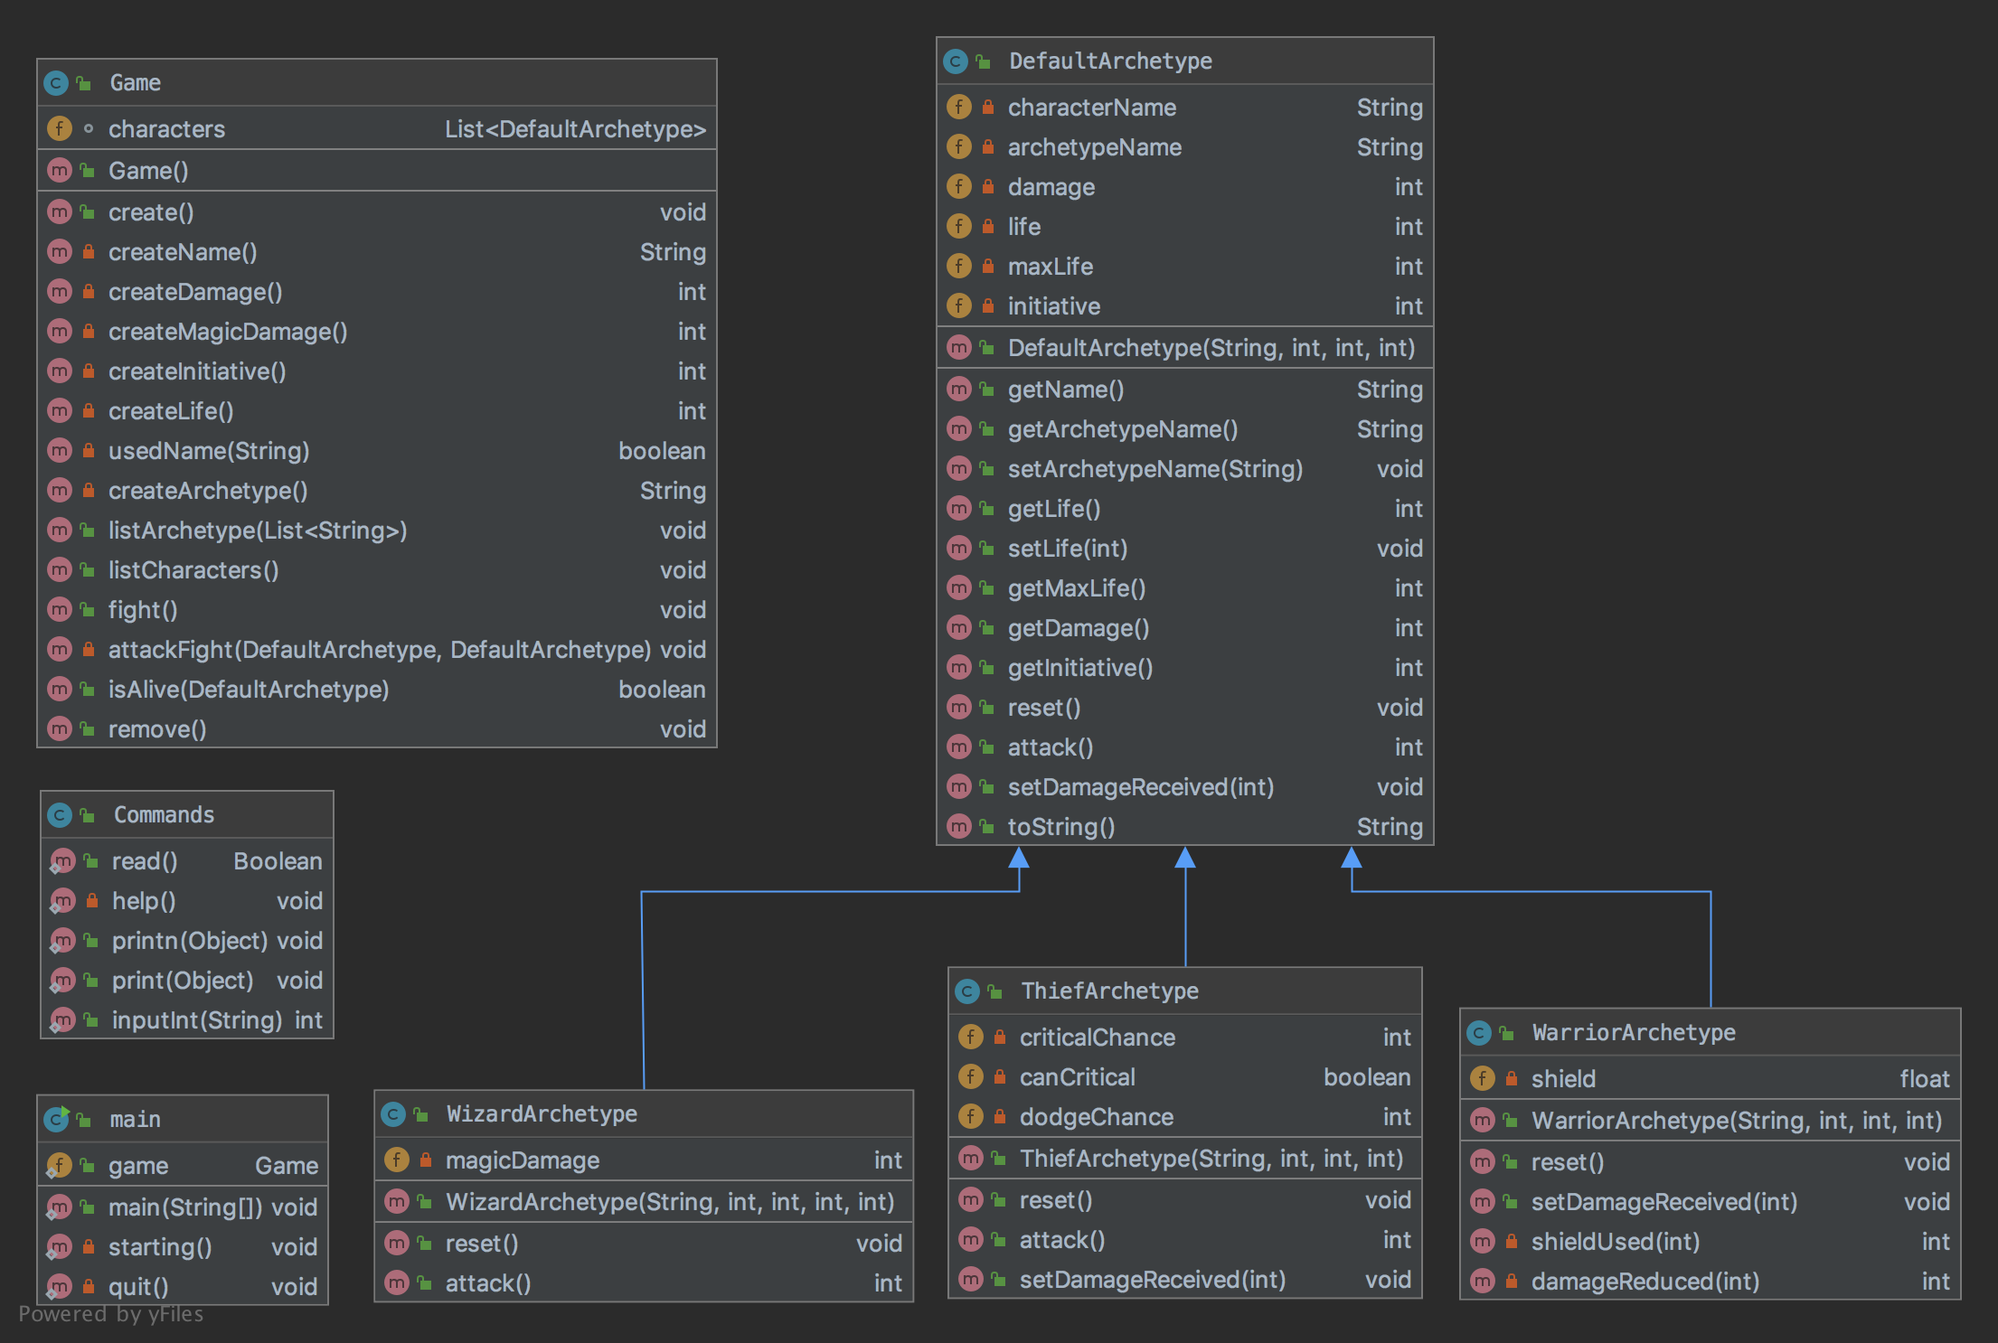
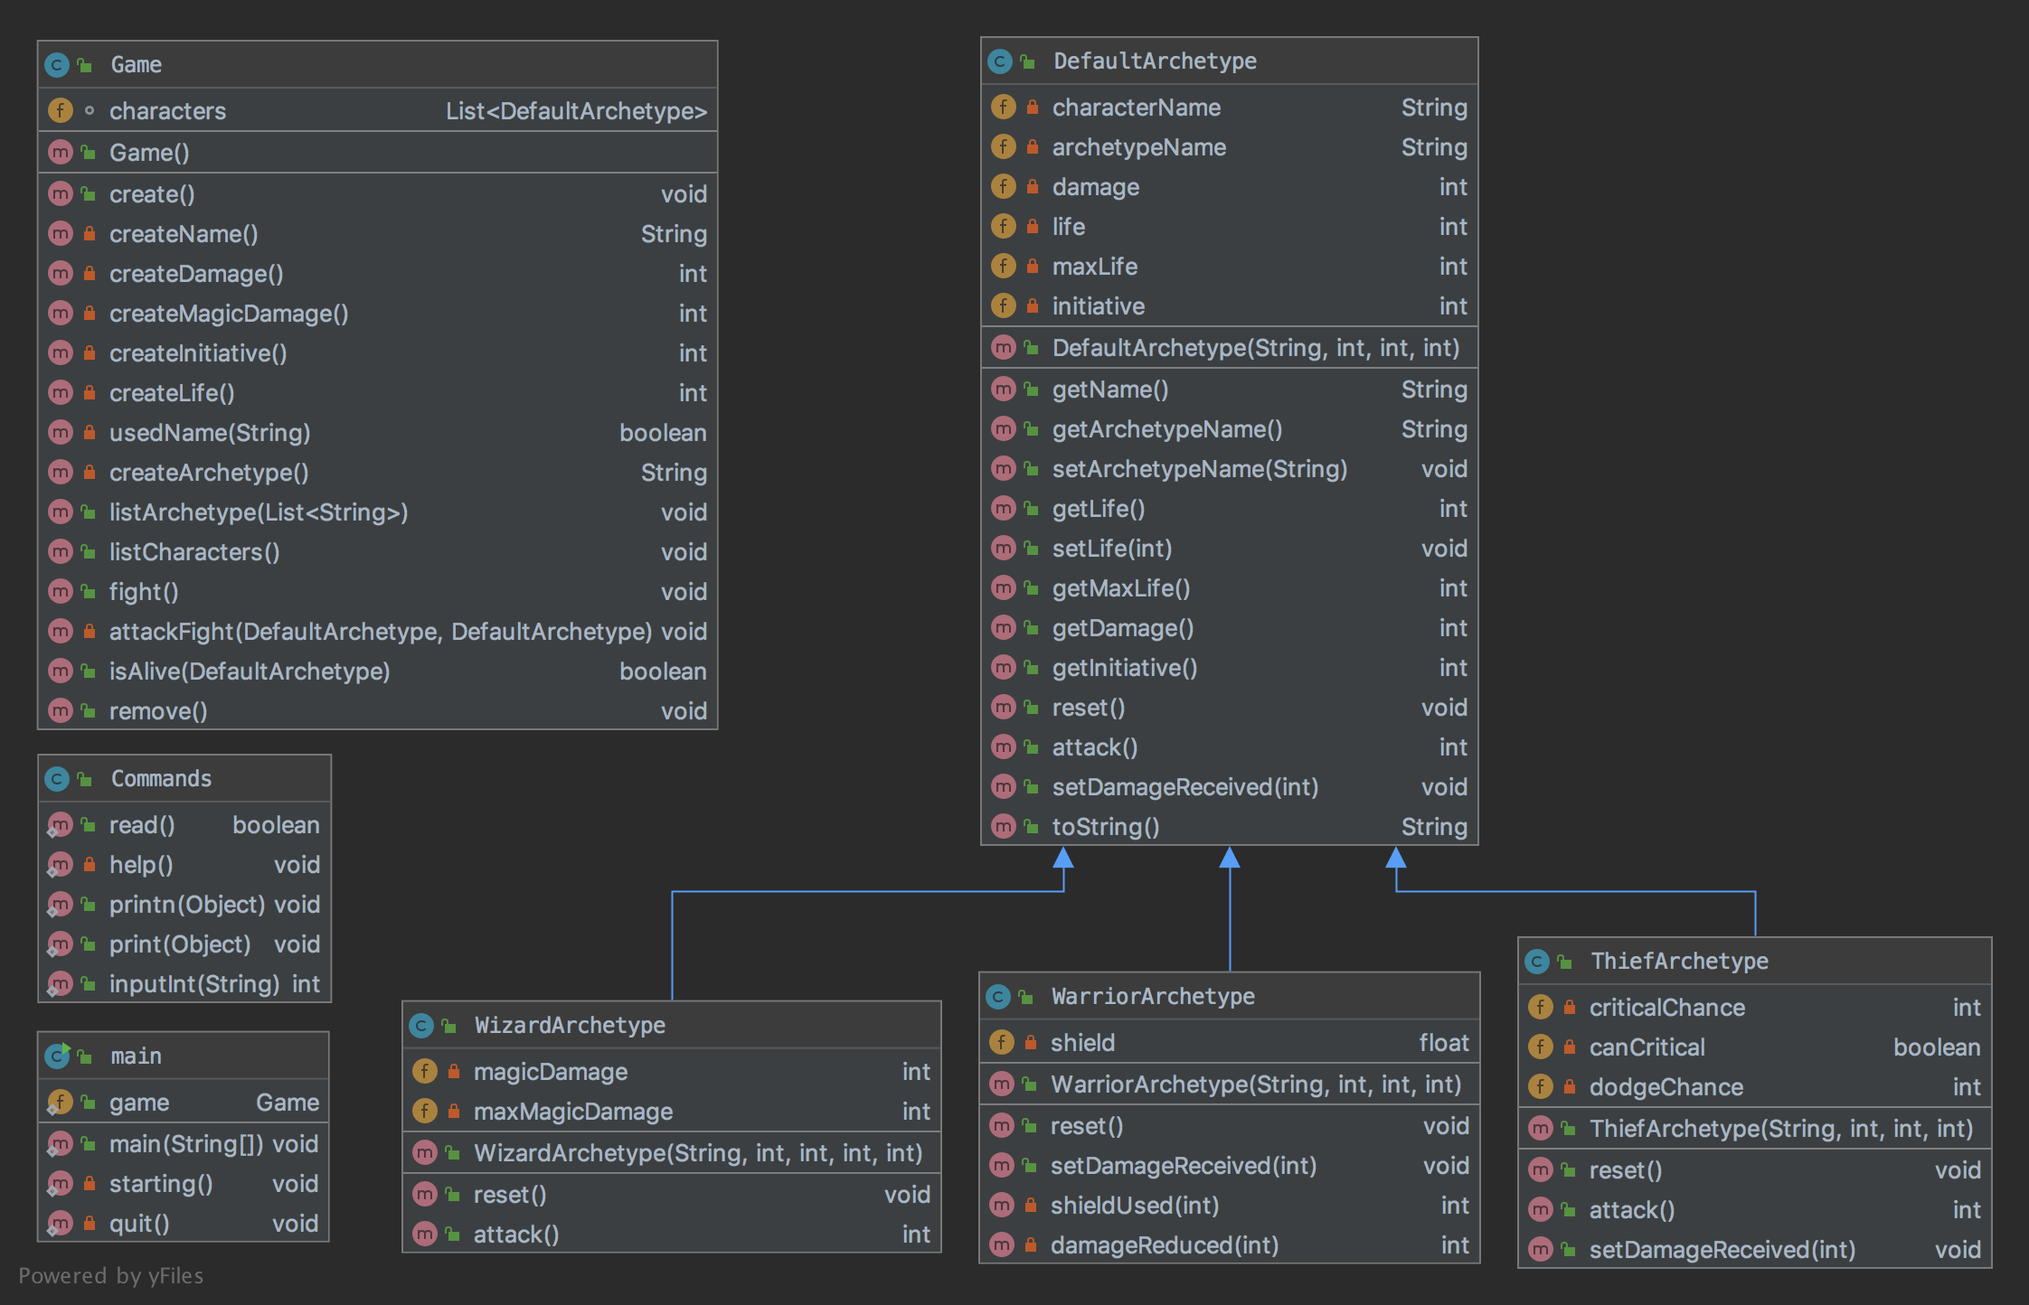
correction reset wizard

Changed region(s): [[0.0, 0.0312, 0.9991, 0.9972], [0.9367, 0.9349, 0.9991, 0.9661]]

diff --git a/javadoc/member-search-index.js b/javadoc/member-search-index.js
@@ -1,1 +1,1 @@
-memberSearchIndex = [{"p":"<Unnamed>","c":"DefaultArchetype","l":"archetypeName"},{"p":"<Unnamed>","c":"DefaultArchetype","l":"attack()"},{"p":"<Unnamed>","c":"ThiefArchetype","l":"attack()"},{"p":"<Unnamed>","c":"WizardArchetype","l":"attack()"},{"p":"<Unnamed>","c":"Game","l":"attackFight(DefaultArchetype, DefaultArchetype)","url":"attackFight(DefaultArchetype,DefaultArchetype)"},{"p":"<Unnamed>","c":"ThiefArchetype","l":"canCritical"},{"p":"<Unnamed>","c":"DefaultArchetype","l":"characterName"},{"p":"<Unnamed>","c":"Game","l":"characters"},{"p":"<Unnamed>","c":"Commands","l":"Commands()","url":"%3Cinit%3E()"},{"p":"<Unnamed>","c":"Game","l":"create()"},{"p":"<Unnamed>","c":"Game","l":"createArchetype()"},{"p":"<Unnamed>","c":"Game","l":"createDamage()"},{"p":"<Unnamed>","c":"Game","l":"createInitiative()"},{"p":"<Unnamed>","c":"Game","l":"createLife()"},{"p":"<Unnamed>","c":"Game","l":"createMagicDamage()"},{"p":"<Unnamed>","c":"Game","l":"createName()"},{"p":"<Unnamed>","c":"ThiefArchetype","l":"criticalChance"},{"p":"<Unnamed>","c":"DefaultArchetype","l":"damage"},{"p":"<Unnamed>","c":"WarriorArchetype","l":"damageReduced(int)"},{"p":"<Unnamed>","c":"DefaultArchetype","l":"DefaultArchetype(String, int, int, int)","url":"%3Cinit%3E(java.lang.String,int,int,int)"},{"p":"<Unnamed>","c":"ThiefArchetype","l":"dodgeChance"},{"p":"<Unnamed>","c":"Game","l":"fight()"},{"p":"<Unnamed>","c":"main","l":"game"},{"p":"<Unnamed>","c":"Game","l":"Game()","url":"%3Cinit%3E()"},{"p":"<Unnamed>","c":"DefaultArchetype","l":"getArchetypeName()"},{"p":"<Unnamed>","c":"DefaultArchetype","l":"getDamage()"},{"p":"<Unnamed>","c":"DefaultArchetype","l":"getInitiative()"},{"p":"<Unnamed>","c":"DefaultArchetype","l":"getLife()"},{"p":"<Unnamed>","c":"DefaultArchetype","l":"getMaxLife()"},{"p":"<Unnamed>","c":"DefaultArchetype","l":"getName()"},{"p":"<Unnamed>","c":"Commands","l":"help()"},{"p":"<Unnamed>","c":"DefaultArchetype","l":"initiative"},{"p":"<Unnamed>","c":"Commands","l":"inputInt(String)","url":"inputInt(java.lang.String)"},{"p":"<Unnamed>","c":"Game","l":"isAlive(DefaultArchetype)"},{"p":"<Unnamed>","c":"DefaultArchetype","l":"life"},{"p":"<Unnamed>","c":"Game","l":"listArchetype(List<String>)","url":"listArchetype(java.util.List)"},{"p":"<Unnamed>","c":"Game","l":"listCharacters()"},{"p":"<Unnamed>","c":"WizardArchetype","l":"magicDamage"},{"p":"<Unnamed>","c":"main","l":"main()","url":"%3Cinit%3E()"},{"p":"<Unnamed>","c":"main","l":"main(String[])","url":"main(java.lang.String[])"},{"p":"<Unnamed>","c":"DefaultArchetype","l":"maxLife"},{"p":"<Unnamed>","c":"Commands","l":"print(Object)","url":"print(java.lang.Object)"},{"p":"<Unnamed>","c":"Commands","l":"printn(Object)","url":"printn(java.lang.Object)"},{"p":"<Unnamed>","c":"main","l":"quit()"},{"p":"<Unnamed>","c":"Commands","l":"read()"},{"p":"<Unnamed>","c":"Game","l":"remove()"},{"p":"<Unnamed>","c":"DefaultArchetype","l":"reset()"},{"p":"<Unnamed>","c":"ThiefArchetype","l":"reset()"},{"p":"<Unnamed>","c":"WarriorArchetype","l":"reset()"},{"p":"<Unnamed>","c":"WizardArchetype","l":"reset()"},{"p":"<Unnamed>","c":"DefaultArchetype","l":"setArchetypeName(String)","url":"setArchetypeName(java.lang.String)"},{"p":"<Unnamed>","c":"DefaultArchetype","l":"setDamageReceived(int)"},{"p":"<Unnamed>","c":"ThiefArchetype","l":"setDamageReceived(int)"},{"p":"<Unnamed>","c":"WarriorArchetype","l":"setDamageReceived(int)"},{"p":"<Unnamed>","c":"DefaultArchetype","l":"setLife(int)"},{"p":"<Unnamed>","c":"WarriorArchetype","l":"shield"},{"p":"<Unnamed>","c":"WarriorArchetype","l":"shieldUsed(int)"},{"p":"<Unnamed>","c":"main","l":"starting()"},{"p":"<Unnamed>","c":"ThiefArchetype","l":"ThiefArchetype(String, int, int, int)","url":"%3Cinit%3E(java.lang.String,int,int,int)"},{"p":"<Unnamed>","c":"DefaultArchetype","l":"toString()"},{"p":"<Unnamed>","c":"Game","l":"usedName(String)","url":"usedName(java.lang.String)"},{"p":"<Unnamed>","c":"WarriorArchetype","l":"WarriorArchetype(String, int, int, int)","url":"%3Cinit%3E(java.lang.String,int,int,int)"},{"p":"<Unnamed>","c":"WizardArchetype","l":"WizardArchetype(String, int, int, int, int)","url":"%3Cinit%3E(java.lang.String,int,int,int,int)"}]
+memberSearchIndex = [{"p":"<Unnamed>","c":"DefaultArchetype","l":"archetypeName"},{"p":"<Unnamed>","c":"DefaultArchetype","l":"attack()"},{"p":"<Unnamed>","c":"ThiefArchetype","l":"attack()"},{"p":"<Unnamed>","c":"WizardArchetype","l":"attack()"},{"p":"<Unnamed>","c":"Game","l":"attackFight(DefaultArchetype, DefaultArchetype)","url":"attackFight(DefaultArchetype,DefaultArchetype)"},{"p":"<Unnamed>","c":"ThiefArchetype","l":"canCritical"},{"p":"<Unnamed>","c":"DefaultArchetype","l":"characterName"},{"p":"<Unnamed>","c":"Game","l":"characters"},{"p":"<Unnamed>","c":"Commands","l":"Commands()","url":"%3Cinit%3E()"},{"p":"<Unnamed>","c":"Game","l":"create()"},{"p":"<Unnamed>","c":"Game","l":"createArchetype()"},{"p":"<Unnamed>","c":"Game","l":"createDamage()"},{"p":"<Unnamed>","c":"Game","l":"createInitiative()"},{"p":"<Unnamed>","c":"Game","l":"createLife()"},{"p":"<Unnamed>","c":"Game","l":"createMagicDamage()"},{"p":"<Unnamed>","c":"Game","l":"createName()"},{"p":"<Unnamed>","c":"ThiefArchetype","l":"criticalChance"},{"p":"<Unnamed>","c":"DefaultArchetype","l":"damage"},{"p":"<Unnamed>","c":"WarriorArchetype","l":"damageReduced(int)"},{"p":"<Unnamed>","c":"DefaultArchetype","l":"DefaultArchetype(String, int, int, int)","url":"%3Cinit%3E(java.lang.String,int,int,int)"},{"p":"<Unnamed>","c":"ThiefArchetype","l":"dodgeChance"},{"p":"<Unnamed>","c":"Game","l":"fight()"},{"p":"<Unnamed>","c":"main","l":"game"},{"p":"<Unnamed>","c":"Game","l":"Game()","url":"%3Cinit%3E()"},{"p":"<Unnamed>","c":"DefaultArchetype","l":"getArchetypeName()"},{"p":"<Unnamed>","c":"DefaultArchetype","l":"getDamage()"},{"p":"<Unnamed>","c":"DefaultArchetype","l":"getInitiative()"},{"p":"<Unnamed>","c":"DefaultArchetype","l":"getLife()"},{"p":"<Unnamed>","c":"DefaultArchetype","l":"getMaxLife()"},{"p":"<Unnamed>","c":"DefaultArchetype","l":"getName()"},{"p":"<Unnamed>","c":"Commands","l":"help()"},{"p":"<Unnamed>","c":"DefaultArchetype","l":"initiative"},{"p":"<Unnamed>","c":"Commands","l":"inputInt(String)","url":"inputInt(java.lang.String)"},{"p":"<Unnamed>","c":"Game","l":"isAlive(DefaultArchetype)"},{"p":"<Unnamed>","c":"DefaultArchetype","l":"life"},{"p":"<Unnamed>","c":"Game","l":"listArchetype(List<String>)","url":"listArchetype(java.util.List)"},{"p":"<Unnamed>","c":"Game","l":"listCharacters()"},{"p":"<Unnamed>","c":"WizardArchetype","l":"magicDamage"},{"p":"<Unnamed>","c":"main","l":"main()","url":"%3Cinit%3E()"},{"p":"<Unnamed>","c":"main","l":"main(String[])","url":"main(java.lang.String[])"},{"p":"<Unnamed>","c":"DefaultArchetype","l":"maxLife"},{"p":"<Unnamed>","c":"WizardArchetype","l":"maxMagicDamage"},{"p":"<Unnamed>","c":"Commands","l":"print(Object)","url":"print(java.lang.Object)"},{"p":"<Unnamed>","c":"Commands","l":"printn(Object)","url":"printn(java.lang.Object)"},{"p":"<Unnamed>","c":"main","l":"quit()"},{"p":"<Unnamed>","c":"Commands","l":"read()"},{"p":"<Unnamed>","c":"Game","l":"remove()"},{"p":"<Unnamed>","c":"DefaultArchetype","l":"reset()"},{"p":"<Unnamed>","c":"ThiefArchetype","l":"reset()"},{"p":"<Unnamed>","c":"WarriorArchetype","l":"reset()"},{"p":"<Unnamed>","c":"WizardArchetype","l":"reset()"},{"p":"<Unnamed>","c":"DefaultArchetype","l":"setArchetypeName(String)","url":"setArchetypeName(java.lang.String)"},{"p":"<Unnamed>","c":"DefaultArchetype","l":"setDamageReceived(int)"},{"p":"<Unnamed>","c":"ThiefArchetype","l":"setDamageReceived(int)"},{"p":"<Unnamed>","c":"WarriorArchetype","l":"setDamageReceived(int)"},{"p":"<Unnamed>","c":"DefaultArchetype","l":"setLife(int)"},{"p":"<Unnamed>","c":"WarriorArchetype","l":"shield"},{"p":"<Unnamed>","c":"WarriorArchetype","l":"shieldUsed(int)"},{"p":"<Unnamed>","c":"main","l":"starting()"},{"p":"<Unnamed>","c":"ThiefArchetype","l":"ThiefArchetype(String, int, int, int)","url":"%3Cinit%3E(java.lang.String,int,int,int)"},{"p":"<Unnamed>","c":"DefaultArchetype","l":"toString()"},{"p":"<Unnamed>","c":"Game","l":"usedName(String)","url":"usedName(java.lang.String)"},{"p":"<Unnamed>","c":"WarriorArchetype","l":"WarriorArchetype(String, int, int, int)","url":"%3Cinit%3E(java.lang.String,int,int,int)"},{"p":"<Unnamed>","c":"WizardArchetype","l":"WizardArchetype(String, int, int, int, int)","url":"%3Cinit%3E(java.lang.String,int,int,int,int)"}]

diff --git a/javadoc/WizardArchetype.html b/javadoc/WizardArchetype.html
@@ -2,7 +2,7 @@
 <!-- NewPage -->
 <html lang="fr">
 <head>
-<!-- Generated by javadoc (13.0.1) on Thu Nov 28 15:29:24 CET 2019 -->
+<!-- Generated by javadoc (13.0.1) on Thu Nov 28 16:49:12 CET 2019 -->
 <title>WizardArchetype</title>
 <meta http-equiv="Content-Type" content="text/html; charset=utf-8">
 <meta name="dc.created" content="2019-11-28">
@@ -102,7 +102,8 @@ extends <a href="DefaultArchetype.html" title="class in &lt;Unnamed&gt;">Default
 <div class="block">WizardArchetype Class extends by DefaultArchetype</div>
 <dl>
 <dt><span class="seeLabel">See Also:</span></dt>
-<dd><a href="#magicDamage"><code>int number to do magical damage</code></a></dd>
+<dd><a href="#magicDamage"><code>int number to do magical damage</code></a>, 
+<a href="#maxMagicDamage"><code>int number to init max magical damage</code></a></dd>
 </dl>
 </section>
 <section class="summary">
@@ -127,6 +128,11 @@ extends <a href="DefaultArchetype.html" title="class in &lt;Unnamed&gt;">Default
 <tr class="altColor">
 <td class="colFirst"><code>private int</code></td>
 <th class="colSecond" scope="row"><code><span class="memberNameLink"><a href="#magicDamage">magicDamage</a></span></code></th>
+<td class="colLast">&nbsp;</td>
+</tr>
+<tr class="rowColor">
+<td class="colFirst"><code>private int</code></td>
+<th class="colSecond" scope="row"><code><span class="memberNameLink"><a href="#maxMagicDamage">maxMagicDamage</a></span></code></th>
 <td class="colLast">&nbsp;</td>
 </tr>
 </tbody>
@@ -228,6 +234,12 @@ int&nbsp;magicDamage)</code></th>
 <section class="detail">
 <h3><a id="magicDamage">magicDamage</a></h3>
 <div class="memberSignature"><span class="modifiers">private</span>&nbsp;<span class="returnType">int</span>&nbsp;<span class="memberName">magicDamage</span></div>
+</section>
+</li>
+<li class="blockList">
+<section class="detail">
+<h3><a id="maxMagicDamage">maxMagicDamage</a></h3>
+<div class="memberSignature"><span class="modifiers">private</span>&nbsp;<span class="returnType">int</span>&nbsp;<span class="memberName">maxMagicDamage</span></div>
 </section>
 </li>
 </ul>

diff --git a/javadoc/index-files/index-9.html b/javadoc/index-files/index-9.html
@@ -2,7 +2,7 @@
 <!-- NewPage -->
 <html lang="fr">
 <head>
-<!-- Generated by javadoc (13.0.1) on Thu Nov 28 15:29:24 CET 2019 -->
+<!-- Generated by javadoc (13.0.1) on Thu Nov 28 16:49:12 CET 2019 -->
 <title>M-Index</title>
 <meta http-equiv="Content-Type" content="text/html; charset=utf-8">
 <meta name="dc.created" content="2019-11-28">
@@ -81,6 +81,8 @@ $('.navPadding').css('padding-top', $('.fixedNav').css("height"));
 <dt><span class="memberNameLink"><a href="../main.html#main(java.lang.String%5B%5D)">main(String[])</a></span> - Static method in class <a href="../main.html" title="class in &lt;Unnamed&gt;">main</a></dt>
 <dd>&nbsp;</dd>
 <dt><span class="memberNameLink"><a href="../DefaultArchetype.html#maxLife">maxLife</a></span> - Variable in class <a href="../DefaultArchetype.html" title="class in &lt;Unnamed&gt;">DefaultArchetype</a></dt>
+<dd>&nbsp;</dd>
+<dt><span class="memberNameLink"><a href="../WizardArchetype.html#maxMagicDamage">maxMagicDamage</a></span> - Variable in class <a href="../WizardArchetype.html" title="class in &lt;Unnamed&gt;">WizardArchetype</a></dt>
 <dd>&nbsp;</dd>
 </dl>
 <a href="index-1.html">A</a>&nbsp;<a href="index-2.html">C</a>&nbsp;<a href="index-3.html">D</a>&nbsp;<a href="index-4.html">F</a>&nbsp;<a href="index-5.html">G</a>&nbsp;<a href="index-6.html">H</a>&nbsp;<a href="index-7.html">I</a>&nbsp;<a href="index-8.html">L</a>&nbsp;<a href="index-9.html">M</a>&nbsp;<a href="index-10.html">P</a>&nbsp;<a href="index-11.html">Q</a>&nbsp;<a href="index-12.html">R</a>&nbsp;<a href="index-13.html">S</a>&nbsp;<a href="index-14.html">T</a>&nbsp;<a href="index-15.html">U</a>&nbsp;<a href="index-16.html">W</a>&nbsp;<br><a href="../allclasses-index.html">All&nbsp;Classes</a>&nbsp;<a href="../allpackages-index.html">All&nbsp;Packages</a></div>

diff --git a/javadoc/Commands.html b/javadoc/Commands.html
@@ -2,7 +2,7 @@
 <!-- NewPage -->
 <html lang="fr">
 <head>
-<!-- Generated by javadoc (13.0.1) on Thu Nov 28 15:29:24 CET 2019 -->
+<!-- Generated by javadoc (13.0.1) on Thu Nov 28 16:49:12 CET 2019 -->
 <title>Commands</title>
 <meta http-equiv="Content-Type" content="text/html; charset=utf-8">
 <meta name="dc.created" content="2019-11-28">
@@ -173,7 +173,7 @@ extends java.lang.Object</pre>
 </td>
 </tr>
 <tr class="altColor" id="i4">
-<td class="colFirst"><code>static java.lang.Boolean</code></td>
+<td class="colFirst"><code>static boolean</code></td>
 <th class="colSecond" scope="row"><code><span class="memberNameLink"><a href="#read()">read</a></span>()</code></th>
 <td class="colLast">
 <div class="block">Method to read command from Menu</div>
@@ -220,7 +220,7 @@ extends java.lang.Object</pre>
 <li class="blockList">
 <section class="detail">
 <h3><a id="read()">read</a></h3>
-<div class="memberSignature"><span class="modifiers">public static</span>&nbsp;<span class="returnType">java.lang.Boolean</span>&nbsp;<span class="memberName">read</span>()</div>
+<div class="memberSignature"><span class="modifiers">public static</span>&nbsp;<span class="returnType">boolean</span>&nbsp;<span class="memberName">read</span>()</div>
 <div class="block">Method to read command from Menu</div>
 <dl>
 <dt><span class="returnLabel">Returns:</span></dt>

diff --git a/javadoc/index.html b/javadoc/index.html
@@ -2,17 +2,17 @@
 <!-- NewPage -->
 <html lang="fr">
 <head>
-<!-- Generated by javadoc (13.0.1) on Thu Nov 28 15:29:24 CET 2019 -->
+<!-- Generated by javadoc (13.0.1) on Thu Nov 28 16:49:12 CET 2019 -->
 <title>Generated Documentation (Untitled)</title>
 <meta http-equiv="Content-Type" content="text/html; charset=utf-8">
 <meta name="dc.created" content="2019-11-28">
 <meta name="description" content="index redirect">
 <meta name="generator" content="javadoc/IndexRedirectWriter">
-<link rel="canonical" href="main.html">
+<link rel="canonical" href="DefaultArchetype.html">
 <link rel="stylesheet" type="text/css" href="stylesheet.css" title="Style">
-<script type="text/javascript">window.location.replace('main.html')</script>
+<script type="text/javascript">window.location.replace('DefaultArchetype.html')</script>
 <noscript>
-<meta http-equiv="Refresh" content="0;main.html">
+<meta http-equiv="Refresh" content="0;DefaultArchetype.html">
 </noscript>
 </head>
 <body class="index-redirect">
@@ -20,7 +20,7 @@
 <noscript>
 <p>JavaScript is disabled on your browser.</p>
 </noscript>
-<p><a href="main.html">main.html</a></p>
+<p><a href="DefaultArchetype.html">DefaultArchetype.html</a></p>
 </main>
 </body>
 </html>

diff --git a/javadoc/constant-values.html b/javadoc/constant-values.html
@@ -2,7 +2,7 @@
 <!-- NewPage -->
 <html lang="fr">
 <head>
-<!-- Generated by javadoc (13.0.1) on Thu Nov 28 15:29:24 CET 2019 -->
+<!-- Generated by javadoc (13.0.1) on Thu Nov 28 16:49:12 CET 2019 -->
 <title>Constant Field Values</title>
 <meta http-equiv="Content-Type" content="text/html; charset=utf-8">
 <meta name="dc.created" content="2019-11-28">

diff --git a/javadoc/DefaultArchetype.html b/javadoc/DefaultArchetype.html
@@ -2,7 +2,7 @@
 <!-- NewPage -->
 <html lang="fr">
 <head>
-<!-- Generated by javadoc (13.0.1) on Thu Nov 28 15:29:24 CET 2019 -->
+<!-- Generated by javadoc (13.0.1) on Thu Nov 28 16:49:12 CET 2019 -->
 <title>DefaultArchetype</title>
 <meta http-equiv="Content-Type" content="text/html; charset=utf-8">
 <meta name="dc.created" content="2019-11-28">

diff --git a/javadoc/WarriorArchetype.html b/javadoc/WarriorArchetype.html
@@ -2,7 +2,7 @@
 <!-- NewPage -->
 <html lang="fr">
 <head>
-<!-- Generated by javadoc (13.0.1) on Thu Nov 28 15:29:24 CET 2019 -->
+<!-- Generated by javadoc (13.0.1) on Thu Nov 28 16:49:12 CET 2019 -->
 <title>WarriorArchetype</title>
 <meta http-equiv="Content-Type" content="text/html; charset=utf-8">
 <meta name="dc.created" content="2019-11-28">

diff --git a/javadoc/package-tree.html b/javadoc/package-tree.html
@@ -2,7 +2,7 @@
 <!-- NewPage -->
 <html lang="fr">
 <head>
-<!-- Generated by javadoc (13.0.1) on Thu Nov 28 15:29:24 CET 2019 -->
+<!-- Generated by javadoc (13.0.1) on Thu Nov 28 16:49:12 CET 2019 -->
 <title> Class Hierarchy</title>
 <meta http-equiv="Content-Type" content="text/html; charset=utf-8">
 <meta name="dc.created" content="2019-11-28">

diff --git a/javadoc/deprecated-list.html b/javadoc/deprecated-list.html
@@ -2,7 +2,7 @@
 <!-- NewPage -->
 <html lang="fr">
 <head>
-<!-- Generated by javadoc (13.0.1) on Thu Nov 28 15:29:24 CET 2019 -->
+<!-- Generated by javadoc (13.0.1) on Thu Nov 28 16:49:12 CET 2019 -->
 <title>Deprecated List</title>
 <meta http-equiv="Content-Type" content="text/html; charset=utf-8">
 <meta name="dc.created" content="2019-11-28">

diff --git a/javadoc/overview-tree.html b/javadoc/overview-tree.html
@@ -2,7 +2,7 @@
 <!-- NewPage -->
 <html lang="fr">
 <head>
-<!-- Generated by javadoc (13.0.1) on Thu Nov 28 15:29:24 CET 2019 -->
+<!-- Generated by javadoc (13.0.1) on Thu Nov 28 16:49:12 CET 2019 -->
 <title>Class Hierarchy</title>
 <meta http-equiv="Content-Type" content="text/html; charset=utf-8">
 <meta name="dc.created" content="2019-11-28">

diff --git a/javadoc/package-summary.html b/javadoc/package-summary.html
@@ -2,7 +2,7 @@
 <!-- NewPage -->
 <html lang="fr">
 <head>
-<!-- Generated by javadoc (13.0.1) on Thu Nov 28 15:29:24 CET 2019 -->
+<!-- Generated by javadoc (13.0.1) on Thu Nov 28 16:49:12 CET 2019 -->
 <title>&lt;Unnamed&gt;</title>
 <meta http-equiv="Content-Type" content="text/html; charset=utf-8">
 <meta name="dc.created" content="2019-11-28">
